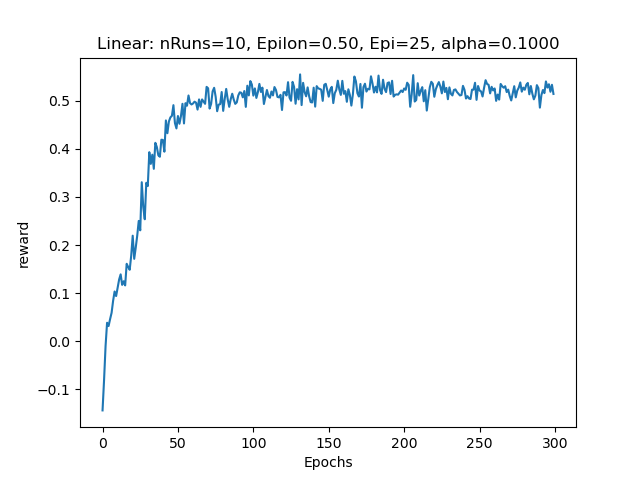
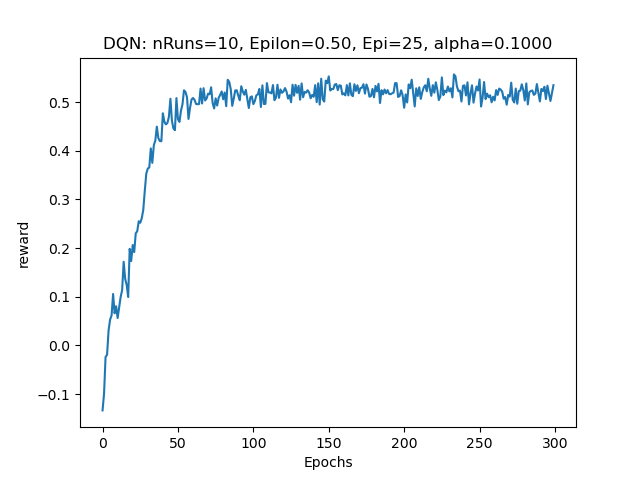
update

diff --git a/agent_linear.py b/agent_linear.py
@@ -227,6 +227,7 @@ if __name__ == '__main__':
                          axis=0))  # plot reward per epoch averaged per run
     axis.set_xlabel('Epochs')
     axis.set_ylabel('reward')
-    axis.set_title(('Linear: nRuns=%d, Epilon=%.2f, Epi=%d, alpha=%.4f' %
+    axis.set_title(('Linear: nRuns=%d, Epsilon=%.2f, Epi=%d, alpha=%.4f' %
                     (NUM_RUNS, TRAINING_EP, NUM_EPIS_TRAIN, ALPHA)))
 
+    plt.show()

diff --git a/agent_dqn.py b/agent_dqn.py
@@ -241,6 +241,6 @@ if __name__ == '__main__':
                          axis=0))  # plot reward per epoch averaged per run
     axis.set_xlabel('Epochs')
     axis.set_ylabel('reward')
-    axis.set_title(('Linear: nRuns=%d, Epilon=%.2f, Epi=%d, alpha=%.4f' %
+    axis.set_title(('DQN: nRuns=%d, Epilon=%.2f, Epi=%d, alpha=%.4f' %
                     (NUM_RUNS, TRAINING_EP, NUM_EPIS_TRAIN, ALPHA)))
     plt.show()

diff --git a/README.md b/README.md
@@ -260,38 +260,44 @@ The result demonstrates an important limitation of simple linear function approx
 ```
 RUN ---> python agent_linear.py
 
-            Avg reward: 0.248510 | Ewma reward: 0.368150: 100%|█| 600/600 [00:35<00:00, 16.9
-            Avg reward: 0.249588 | Ewma reward: 0.381132: 100%|█| 600/600 [00:34<00:00, 17.2
-            Avg reward: 0.219707 | Ewma reward: 0.314810: 100%|█| 600/600 [00:36<00:00, 16.4
-            Avg reward: 0.259538 | Ewma reward: 0.378542: 100%|█| 600/600 [00:34<00:00, 17.3
-            Avg reward: 0.255547 | Ewma reward: 0.375508: 100%|█| 600/600 [00:34<00:00, 17.4
-            Avg reward: 0.247869 | Ewma reward: 0.311745: 100%|█| 600/600 [00:35<00:00, 16.7
-            Avg reward: 0.254208 | Ewma reward: 0.342682: 100%|█| 600/600 [00:40<00:00, 14.9
-            Avg reward: 0.251781 | Ewma reward: 0.347270: 100%|█| 600/600 [00:40<00:00, 14.7
-            Avg reward: 0.234385 | Ewma reward: 0.333607: 100%|█| 600/600 [00:37<00:00, 15.8
-            Avg reward: 0.244677 | Ewma reward: 0.349393: 100%|█| 600/600 [00:38<00:00, 15.5
+            Avg reward: 0.258785 | Ewma reward: 0.354678: 100%|█| 600/600 [00:34<00:00, 17.6
+            Avg reward: 0.255159 | Ewma reward: 0.359309: 100%|█| 600/600 [00:34<00:00, 17.1
+            Avg reward: 0.262132 | Ewma reward: 0.330960: 100%|█| 600/600 [00:34<00:00, 17.5
+            Avg reward: 0.256357 | Ewma reward: 0.316044: 100%|█| 600/600 [00:33<00:00, 17.9
+            Avg reward: 0.259168 | Ewma reward: 0.385576: 100%|█| 600/600 [00:32<00:00, 18.4
+            Avg reward: 0.254242 | Ewma reward: 0.360913: 100%|█| 600/600 [00:34<00:00, 17.5
+            Avg reward: 0.224929 | Ewma reward: 0.323760: 100%|█| 600/600 [00:36<00:00, 16.4
+            Avg reward: 0.258680 | Ewma reward: 0.299341: 100%|█| 600/600 [00:32<00:00, 18.2
+            Avg reward: 0.245529 | Ewma reward: 0.320811: 100%|█| 600/600 [00:34<00:00, 17.5
+            Avg reward: 0.224714 | Ewma reward: 0.261852: 100%|█| 600/600 [00:36<00:00, 16.3
 
 ```
 
+![Linear Function Learning Curve](images/linear.png)
+
 ### Deep Q-Learning (DQN)
 
-The DQN uses a neural network to approximate Q-values, allowing the agent to learn a more flexible representation than the linear model.
+The DQN achieves an average episodic reward of approximately **0.47** across 10 experimental runs.
+
+The learning curve shows a rapid improvement during the early stages of training, followed by relatively stable performance after approximately 60–100 epochs. The reward stabilizes around `0.50–0.53` in the learning curve.
+
+Compared with the linear function approximator, the DQN achieves substantially better performance, demonstrating that the nonlinear neural-network representation is better able to approximate the Q-function for this environment.
 
 #### Example Output
 
 ```
 RUN ---> python agent_dqn.py
 
-            Avg reward: 0.480499 | Ewma reward: 0.523035: 100%|█| 300/300 [00:46<00:00,  6.4
-            Avg reward: 0.482076 | Ewma reward: 0.535152: 100%|█| 300/300 [00:52<00:00,  5.7
-            Avg reward: 0.455508 | Ewma reward: 0.527707: 100%|█| 300/300 [00:59<00:00,  5.0
-            Avg reward: 0.476610 | Ewma reward: 0.538855: 100%|█| 300/300 [00:48<00:00,  6.2
-            Avg reward: 0.450522 | Ewma reward: 0.524614: 100%|█| 300/300 [00:56<00:00,  5.3
-            Avg reward: 0.468956 | Ewma reward: 0.513336: 100%|█| 300/300 [00:55<00:00,  5.4
-            Avg reward: 0.470623 | Ewma reward: 0.516475: 100%|█| 300/300 [01:05<00:00,  4.5
-            Avg reward: 0.474933 | Ewma reward: 0.502803: 100%|█| 300/300 [01:15<00:00,  3.9
-            Avg reward: 0.478990 | Ewma reward: 0.532622: 100%|█| 300/300 [01:25<00:00,  3.5
-            Avg reward: 0.476374 | Ewma reward: 0.509053: 100%|█| 300/300 [00:50<00:00,  5.9
+            Avg reward: 0.468756 | Ewma reward: 0.519246: 100%|█| 300/300 [00:56<00:00,  5.3
+            Avg reward: 0.469638 | Ewma reward: 0.530501: 100%|█| 300/300 [00:49<00:00,  6.0
+            Avg reward: 0.476111 | Ewma reward: 0.532606: 100%|█| 300/300 [00:48<00:00,  6.2
+            Avg reward: 0.473854 | Ewma reward: 0.530444: 100%|█| 300/300 [00:48<00:00,  6.2
+            Avg reward: 0.480406 | Ewma reward: 0.526519: 100%|█| 300/300 [00:46<00:00,  6.4
+            Avg reward: 0.482150 | Ewma reward: 0.497850: 100%|█| 300/300 [00:49<00:00,  6.0
+            Avg reward: 0.468225 | Ewma reward: 0.514457: 100%|█| 300/300 [00:50<00:00,  5.9
+            Avg reward: 0.476535 | Ewma reward: 0.502785: 100%|█| 300/300 [00:46<00:00,  6.5
+            Avg reward: 0.475726 | Ewma reward: 0.508126: 100%|█| 300/300 [00:48<00:00,  6.2
+            Avg reward: 0.470882 | Ewma reward: 0.538041: 100%|█| 300/300 [01:04<00:00,  4.6
 
 ```
 
